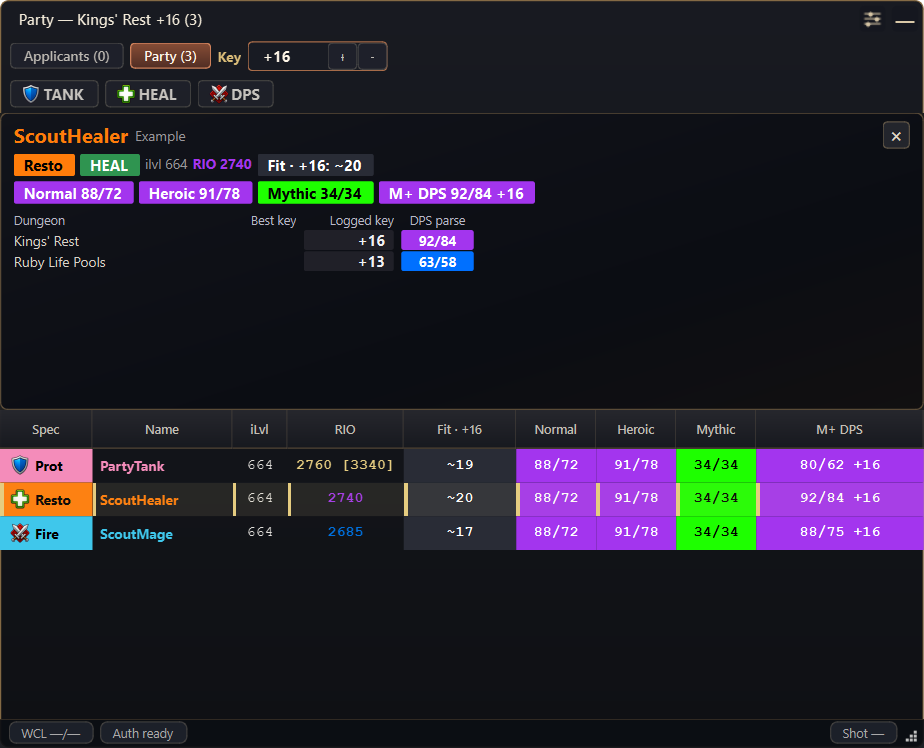
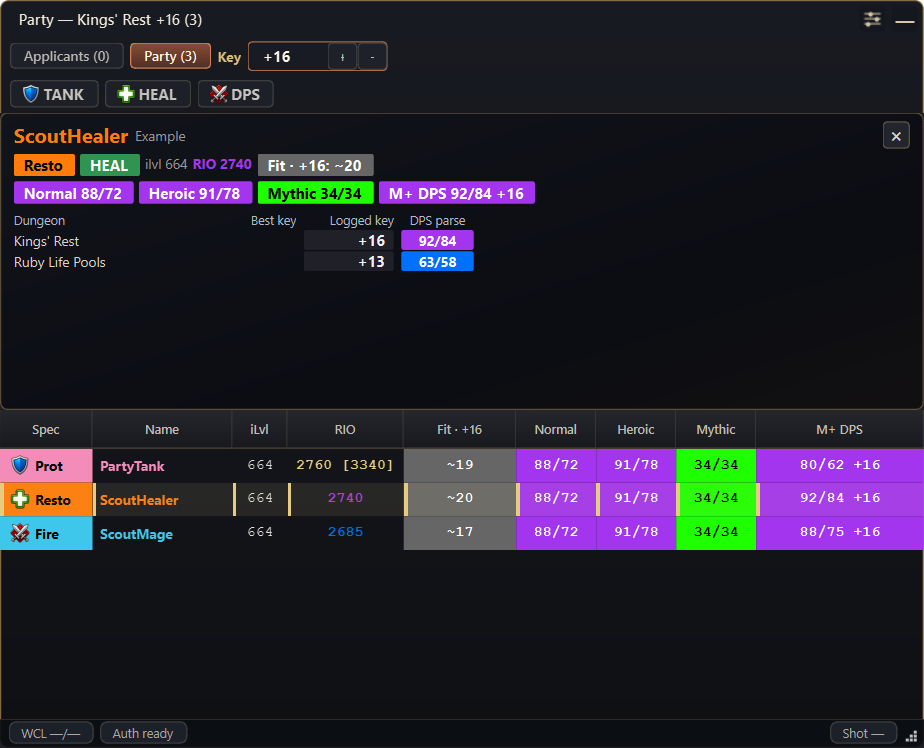
feat: release ApplicantScout 0.11.0 with raid Fit and Companion 0.19.0

Changed region(s): [[0.4242, 0.5842, 0.5758, 0.738], [0.2727, 0.1845, 0.4242, 0.246]]

diff --git a/tests/test_release_workflow_contract.py b/tests/test_release_workflow_contract.py
@@ -1233,9 +1233,7 @@ def test_release_version_script_validates_paired_companion_minimum_addon(
                 "",
                 f"## {CURRENT_COMPANION_VERSION} - 30-May-2026",
                 "",
-                "### Release Assets",
-                "",
-                f"- Requires the ApplicantScout WoW addon `{CURRENT_ADDON_VERSION}`.",
+                f"Paired release with ApplicantScout addon `{CURRENT_ADDON_VERSION}`.",
                 "",
             ]
         ),
@@ -1264,6 +1262,41 @@ def test_release_version_script_validates_paired_companion_minimum_addon(
     assert result.returncode == 0, result.stdout + result.stderr
 
 
+@pytest.mark.parametrize(
+    "paired_copy",
+    [
+        "",
+        "Paired release with ApplicantScout addon `0.11`.",
+        f"- Requires the ApplicantScout WoW addon `{CURRENT_ADDON_VERSION}`.",
+        (f"Paired release with ApplicantScout addon `{CURRENT_ADDON_VERSION}`.\n" * 2),
+        (
+            f"Paired release with ApplicantScout addon `{CURRENT_ADDON_VERSION}`.\n"
+            "Paired release with ApplicantScout addon `99.0.0`."
+        ),
+    ],
+)
+def test_release_version_script_rejects_missing_or_ambiguous_paired_addon(
+    tmp_path: Path, paired_copy: str,
+):
+    companion = tmp_path / "ApplicantScout-Companion"
+    companion.mkdir()
+    (companion / "RELEASE_NOTES.md").write_text(
+        f"## {CURRENT_COMPANION_VERSION} - 16-Sep-2026\n\n{paired_copy}\n\n"
+        "## 0.0.1 - 01-Jan-2026\n\n"
+        f"Paired release with ApplicantScout addon `{CURRENT_ADDON_VERSION}`.\n",
+        encoding="utf-8",
+    )
+
+    result = _run_release_check_in(
+        REPO_ROOT, "-Tag", CURRENT_ADDON_TAG, "-PairedCompanionRoot", str(companion),
+    )
+
+    assert result.returncode != 0
+    assert "exactly one paired ApplicantScout addon version" in (
+        result.stdout + result.stderr
+    )
+
+
 def test_release_version_script_rejects_companion_requiring_newer_addon(
     tmp_path: Path,
 ):
@@ -1277,9 +1310,7 @@ def test_release_version_script_rejects_companion_requiring_newer_addon(
                 "",
                 f"## {CURRENT_COMPANION_VERSION} - 30-May-2026",
                 "",
-                "### Release Assets",
-                "",
-                f"- Requires the ApplicantScout WoW addon `{newer_addon_version}`.",
+                f"Paired release with ApplicantScout addon `{newer_addon_version}`.",
                 "",
             ]
         ),

diff --git a/tests/test_transport_contract.py b/tests/test_transport_contract.py
@@ -4817,6 +4817,44 @@ def test_roster_payload_serializes_each_row_once(pytestconfig):
     assert output.startswith("ok roster-serialization-reuse rows=40 inserts=800 bytes=")
 
 
+def test_roster_transmits_guarded_raid_difficulty_without_listing(pytestconfig):
+    output = _run_lua_script(
+        pytestconfig,
+        REPO_ROOT / "tests" / "lua" / "check_roster_raid_difficulty.lua",
+    ).strip()
+    assert output == "ok roster-raid-difficulty"
+
+
+@pytest.mark.requires_companion
+@pytest.mark.parametrize(
+    ("instance_type", "actual", "selected", "expected"),
+    [
+        ("none", 0, 14, 14),
+        ("none", 0, 15, 15),
+        ("none", 0, 16, 16),
+        ("raid", 14, 16, 14),
+        ("raid", 17, 15, 0),
+        ("pvp", 0, 15, 0),
+    ],
+)
+def test_raid_context_survives_paired_transport(
+    pytestconfig, instance_type, actual, selected, expected
+):
+    output = _run_lua_script(
+        pytestconfig,
+        REPO_ROOT / "tests" / "lua" / "generate_raid_context_fixture.lua",
+        instance_type,
+        str(actual),
+        str(selected),
+    ).strip()
+    snapshot, error = _companion_payload_parser(pytestconfig)(bytes.fromhex(output))
+    assert error is None
+    assert snapshot is not None and snapshot.listing is None
+    assert len(snapshot.roster) == 3
+    assert all(row.is_raid_member for row in snapshot.roster)
+    assert {row.raid_difficulty_id for row in snapshot.roster} == {expected}
+
+
 def test_applicant_payload_appends_one_serialized_member_block(pytestconfig):
     output = _run_lua_script(
         pytestconfig,

diff --git a/CHANGELOG.md b/CHANGELOG.md
@@ -1,5 +1,23 @@
 # Changelog
 
+## 0.11.0 - 16-Sep-2026 - Raid Fit and overlay controls
+
+Paired release with ApplicantScout Companion `0.19.0`.
+
+- Show raid Fit in Party without a Group Finder listing. Use the current raid's
+  difficulty inside an instance and the selected raid difficulty outside it.
+- Colour Fit estimates with the same thresholds as WCL results. Changing a
+  target key updates Fit; historical WCL percentiles remain unchanged.
+- Sort by any table column, including specialization, item level, Fit and
+  parses. Keep grouped applications together and missing results at the bottom.
+- Keep the selected Applicants or Party tab when group data refreshes.
+- Detect when Windows blocks Companion's background WoW watcher and offer a
+  repair button. The watcher opens Companion when WoW starts.
+- Fit the Warcraft Logs setup example inside its window, keeping Copy buttons
+  visible without horizontal scrolling.
+- Remove the square corners around the companion's floating launcher.
+- Keep release notes focused on changes without repeating download filenames.
+
 ## 0.10.6 - 16-Sep-2026 - Companion layout and source updates
 
 Paired release with ApplicantScout Companion `0.18.3`.

diff --git a/README.md b/README.md
@@ -66,11 +66,16 @@ Normal, Heroic, Mythic, and M+ results use the applying specialization.
 WCL percentiles keep their usual colours. Missing logs are marked as missing;
 tooltips explain best/median values and limited samples.
 
-**Fit**, shown as a neutral estimate such as **~65**, describes how the available
+**Fit**, shown as an estimate such as **~65**, describes how the available
 data matches the target key or raid. It is not a success probability or a
-Warcraft Logs percentile. Hover Fit for evidence strength, dungeon coverage,
+Warcraft Logs percentile. Its colours use the same thresholds as WCL results.
+Hover Fit for evidence strength, dungeon coverage,
 and limitations. Optional local RaiderIO data adds dungeon, raid, and main-score
 context when available.
+
+Party also shows raid Fit without a Group Finder listing. Inside a raid it uses
+the instance difficulty; outside it uses the selected Normal, Heroic or Mythic
+raid difficulty. Click a column heading to sort and click again to reverse it.
 
 **M+ WCL values measure damage for every role**, including tanks and healers.
 They do not measure healing, survival, interrupts, or other utility.
